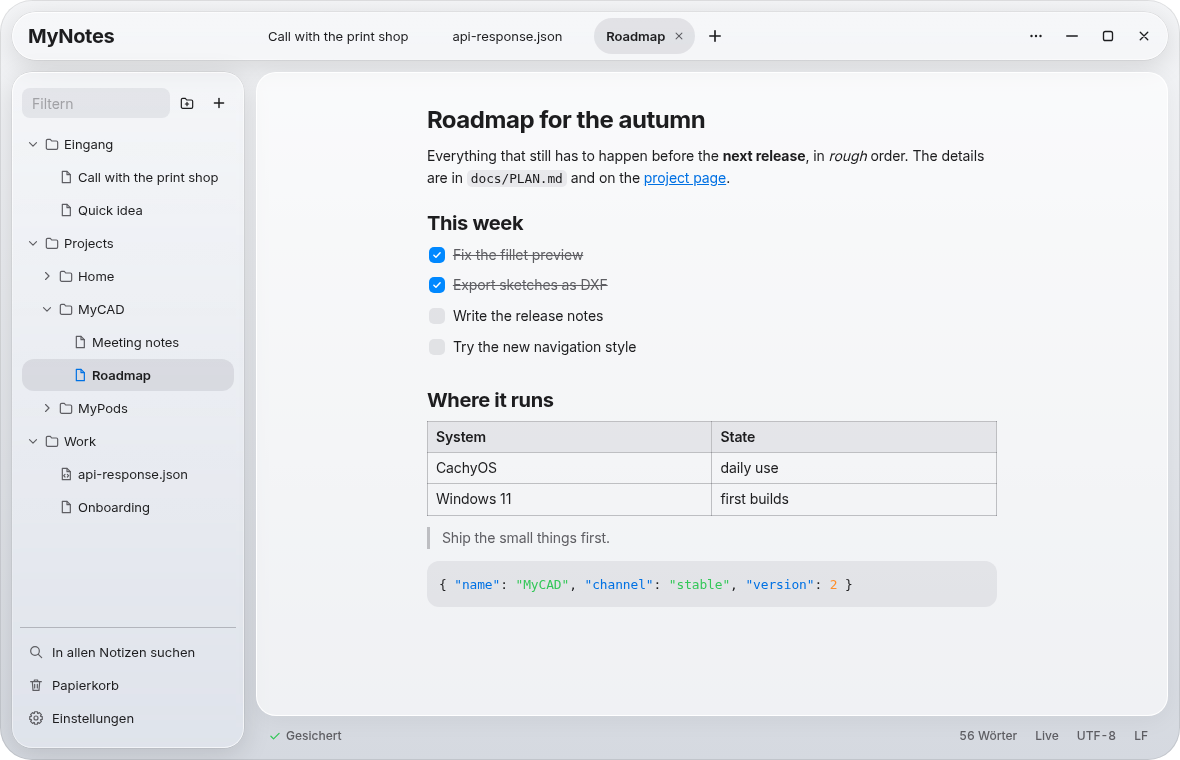
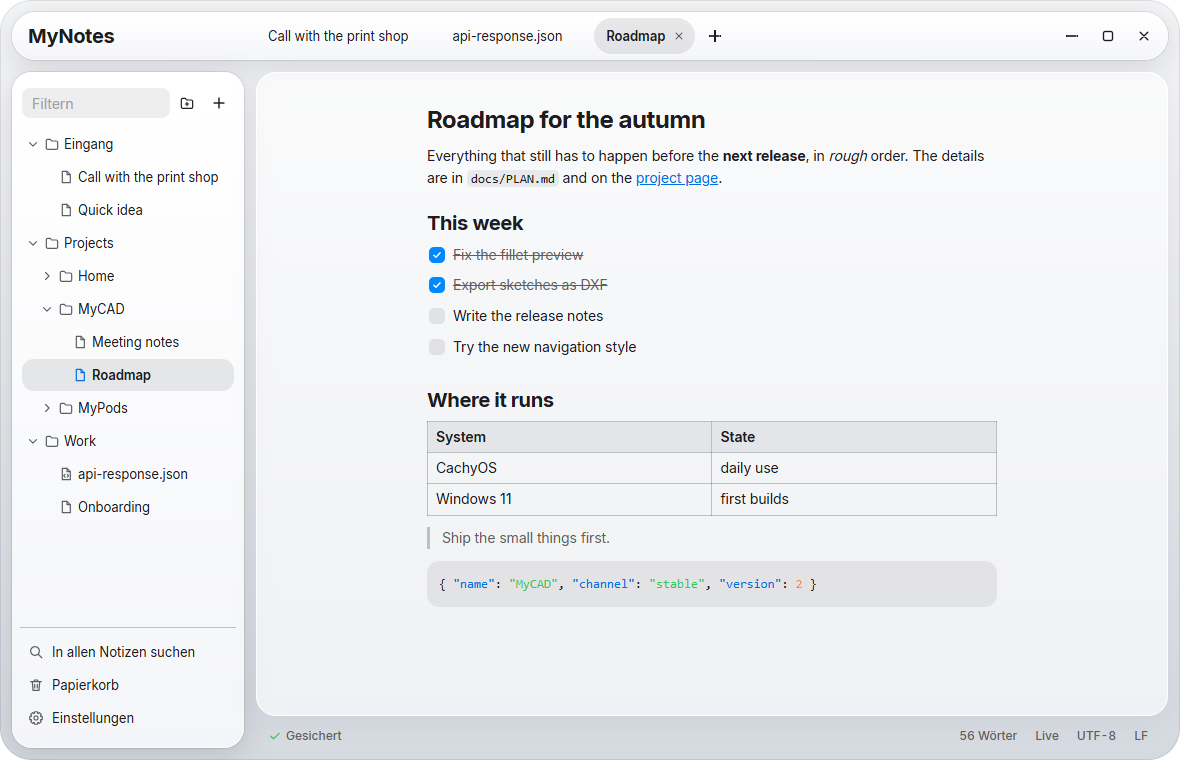
fix: shorter note names, a menu on the plus button, tabs that scroll
- Automatic file names stop at 40 characters, cut at a word, so the
  name no longer grows along with the first line.
- The three dots in the title bar are gone. A right click on the plus
  button offers what opens something new and the full command list.
- The mouse wheel scrolls the tab list, and a repaint no longer pulls
  it back while the pointer rests on it.
- The search field's focus ring is no longer clipped at the top.

diff --git a/src/renderer/app.js b/src/renderer/app.js
@@ -323,7 +323,9 @@ function paintTabs() {
     }));
     return node;
   }));
-  list.querySelector('.is-active')?.scrollIntoView({ block: 'nearest', inline: 'nearest' });
+  // Into view when the active tab changes or while typing, but a repaint must not pull the list away from someone looking for another tab.
+  if (state.activeId !== state.tabInView || !list.matches(':hover')) list.querySelector('.is-active')?.scrollIntoView({ block: 'nearest', inline: 'nearest' });
+  state.tabInView = state.activeId;
 }
 
 function tabMenu(tab, at) {
@@ -598,16 +600,23 @@ const inCode = (fn) => () => {
   else banner({ kind: 'info', text: 'Das geht in Code-Dateien und in der Quelltextansicht (Strg+/).' });
 };
 
+/** What opens something new: the menu on the plus button, and the top of the command list. */
+const openCommands = () => [
+  { label: 'Neuer Tab', hint: 'Strg+T', run: () => newTab() },
+  { label: 'Neue JSON-Datei', run: () => newTab({ ext: '.json' }) },
+  { label: 'Datei öffnen …', hint: 'Strg+O', run: openFiles },
+  { label: 'Notiz öffnen …', hint: 'Strg+P', run: quickOpen },
+  { label: 'Geschlossenen Tab zurückholen', hint: 'Strg+Umschalt+T', run: reopenClosed, disabled: !state.closed.length },
+];
+
+const showCommands = () => pick({ title: 'Befehl …', items: commands() });
+
 function commands() {
   const tab = activeTab();
   const md = tab && isMd(tab.doc);
   return [
-    { label: 'Neuer Tab', hint: 'Strg+T', run: () => newTab() },
-    { label: 'Neue JSON-Datei', run: () => newTab({ ext: '.json' }) },
-    { label: 'Datei öffnen …', hint: 'Strg+O', run: openFiles },
-    { label: 'Notiz öffnen …', hint: 'Strg+P', run: quickOpen },
+    ...openCommands(),
     { label: 'In allen Notizen suchen …', hint: 'Strg+Umschalt+F', run: showSearch },
-    { label: 'Geschlossenen Tab zurückholen', hint: 'Strg+Umschalt+T', run: reopenClosed },
     { label: 'Suchen und Ersetzen', hint: 'Strg+F', run: () => tab?.editor.find() },
     { label: 'JSON formatieren (Pretty Print)', hint: 'Strg+Alt+J', run: () => jsonTool(prettyJson) },
     { label: 'JSON komprimieren (Minify)', hint: 'Strg+Alt+Umschalt+J', run: () => jsonTool((s) => minifyJson(s)) },
@@ -921,7 +930,7 @@ window.addEventListener('keydown', (e) => {
   if (e.altKey) return undefined;
   if (e.shiftKey) {
     if (k === 't') return take(reopenClosed);
-    if (k === 'p') return take(() => pick({ title: 'Befehl …', items: commands() }));
+    if (k === 'p') return take(showCommands);
     if (k === 'f') return take(showSearch);
     if (k === 'tab') return take(() => cycleTab(-1));
     return undefined;
@@ -954,7 +963,6 @@ function wire() {
   iconize('new-folder', 'folderPlus');
   iconize('new-note', 'plus');
   iconize('tab-new', 'plus');
-  iconize('win-menu', 'more');
   iconize('win-min', 'minus');
   iconize('win-max', 'maximize');
   iconize('win-close', 'close');
@@ -965,9 +973,18 @@ function wire() {
 
   $('new-note').addEventListener('click', () => newTab());
   $('tab-new').addEventListener('click', () => newTab());
+  $('tab-new').addEventListener('contextmenu', (e) => {
+    e.preventDefault();
+    menu(e.currentTarget, [...openCommands(), { separator: true }, { label: 'Alle Befehle …', run: showCommands }]);
+  });
+  // A mouse wheel only scrolls vertically and this list shows no scrollbar: without this, tabs that moved out of view stay out of reach.
+  $('tab-list').addEventListener('wheel', (e) => {
+    if (Math.abs(e.deltaY) <= Math.abs(e.deltaX)) return;
+    e.preventDefault();
+    e.currentTarget.scrollLeft += e.deltaY;
+  }, { passive: false });
   $('new-folder').addEventListener('click', () => createFolderIn(''));
   $('filter').addEventListener('input', (e) => { state.filter = e.target.value; paintTree(); });
-  $('win-menu').addEventListener('click', () => pick({ title: 'Befehl …', items: commands() }));
   $('win-min').addEventListener('click', () => api.win('minimize'));
   $('win-max').addEventListener('click', () => api.win('maximize'));
   $('win-close').addEventListener('click', () => api.win('close'));

diff --git a/src/shared/text.js b/src/shared/text.js
@@ -55,7 +55,7 @@ const RESERVED = /^(con|prn|aux|nul|com\d|lpt\d)(\..*)?$/i;
 
 /** A file name stem that is valid on Windows and Linux, so a synced folder works on both. */
 export function safeName(name, fallback = 'Unbenannt') {
-  const s = String(name).replace(/[<>:"/\\|?*\u0000-\u001f]/g, ' ').replace(/\s+/g, ' ').trim().slice(0, 80).replace(/[. ]+$/, '').trim();
+  const s = String(name).replace(/[<>:"/\\|?*\u0000-\u001f]/g, ' ').replace(/\s+/g, ' ').trim().slice(0, 80).replace(/\p{Cs}/gu, '').replace(/[. ]+$/, '').trim(); // a cut can split an emoji
   if (!/[\p{L}\p{N}]/u.test(s)) return fallback;
   return RESERVED.test(s) ? `_${s}` : s;
 }
@@ -63,14 +63,19 @@ export function safeName(name, fallback = 'Unbenannt') {
 /** Prose is named after its first line. The first line of code or JSON says nothing, so those wait for a real name. */
 export const nameFromText = (text, ext) => (/^\.(md|markdown|txt)$/i.test(ext) ? titleOf(text) : 'Unbenannt');
 
-/** The note's title: the first line that has any text, without its Markdown markers. */
+const TITLE_MAX = 40;
+
+/** A title is a handle, not the whole line: cut at a word, so the name stops growing while the line goes on. */
+const shorten = (t) => (t.length <= TITLE_MAX ? t : t.slice(0, TITLE_MAX + 1).replace(/\s+\S*$/, '').slice(0, TITLE_MAX));
+
+/** The note's title: the start of the first line that has any text, without its Markdown markers. */
 export function titleOf(text) {
   for (const line of text.split('\n', 50)) {
     const t = line
       .replace(/!\[[^\]]*\]\([^)]*\)/g, '') // an image says nothing about the title
       .replace(/\[([^\]]*)\]\([^)]*\)/g, '$1') // of a link, only its text does
       .replace(/^\s*(#{1,6}\s+|>\s*|[-*+]\s+(\[[ xX]\]\s+)?|\d+[.)]\s+)*/, '').replace(/[*_`~]/g, '').trim();
-    if (/[\p{L}\p{N}]/u.test(t)) return safeName(t);
+    if (/[\p{L}\p{N}]/u.test(t)) return safeName(shorten(t));
   }
   return 'Unbenannt';
 }

diff --git a/src/renderer/index.html b/src/renderer/index.html
@@ -11,11 +11,10 @@
   <header id="topbar" class="ms-glass ms-glass--capsule">
     <div id="tabs" role="tablist" aria-label="Offene Notizen">
       <div id="tab-list" class="ms-scroll"></div>
-      <button id="tab-new" class="icon-btn" aria-label="Neuer Tab" title="Neuer Tab (Strg+T)"></button>
+      <button id="tab-new" class="icon-btn" aria-label="Neuer Tab" title="Neuer Tab (Strg+T). Rechtsklick: mehr öffnen"></button>
     </div>
     <span id="app-name" class="ms-title2">MyNotes</span>
     <div id="window-buttons">
-      <button id="win-menu" class="round-btn" aria-label="Befehle" title="Befehle (Strg+Umschalt+P)"></button>
       <button id="win-min" class="round-btn" aria-label="Minimieren" title="Minimieren"></button>
       <button id="win-max" class="round-btn" aria-label="Maximieren" title="Maximieren"></button>
       <button id="win-close" class="round-btn ms-button--close" aria-label="Schließen" title="Schließen"></button>

diff --git a/src/renderer/style.css b/src/renderer/style.css
@@ -190,7 +190,7 @@ svg { display: block; }
 .sheet--wide { width: min(880px, 100%); }
 .sheet-head { flex: none; display: flex; align-items: center; justify-content: space-between; padding: var(--ms-space-s) var(--ms-space-s) var(--ms-space-s) var(--ms-space-l); }
 .sheet-head h2 { margin: 0; }
-.sheet-body { flex: 1; min-height: 0; padding: 0 var(--ms-space-l) var(--ms-space-l); }
+.sheet-body { flex: 1; min-height: 0; padding: var(--ms-space-xs) var(--ms-space-l) var(--ms-space-l); } /* a scroller clips what it holds: the top padding keeps a focus ring whole */
 .sheet-section { margin: var(--ms-space-s) 0 var(--ms-space-xs) var(--ms-space-l); color: var(--ms-color-label-secondary); }
 .sheet-note { margin: var(--ms-space-xs) var(--ms-space-l) var(--ms-space-s); }
 .sheet-actions { display: flex; justify-content: flex-end; margin-top: var(--ms-space-m); }

diff --git a/tests/text.test.js b/tests/text.test.js
@@ -83,4 +83,12 @@ test('titles come from the first line with text', () => {
   assert.equal(titleOf('{\n"name": "x"\n}'), 'name x');
   assert.equal(titleOf('---\n***'), 'Unbenannt');
   assert.equal(titleOf(''), 'Unbenannt');
+  // long lines: cut at a word, and the name no longer changes while the line goes on
+  const long = 'Hallo was ist das denn für eine fesfesfsefsfseffffffffffffffff';
+  assert.equal(titleOf(long), 'Hallo was ist das denn für eine');
+  assert.equal(titleOf(`${long}ffffffff weiter`), 'Hallo was ist das denn für eine');
+  assert.equal(titleOf('x'.repeat(40)), 'x'.repeat(40));
+  assert.equal(titleOf('x'.repeat(60)), 'x'.repeat(40));
+  assert.equal(titleOf(`Erster Satz. ${'x'.repeat(50)}`), 'Erster Satz');
+  assert.equal(titleOf(`${'x'.repeat(39)}😀😀`), 'x'.repeat(39));
 });

diff --git a/src/renderer/icons.js b/src/renderer/icons.js
@@ -19,7 +19,6 @@ const paths = {
   glass: stroke('<path d="M12 3.2c3.3 4 6.2 7.3 6.2 10.9a6.2 6.2 0 0 1-12.4 0c0-3.6 2.9-6.9 6.2-10.9z"/><path d="M9.2 14.4a2.9 2.9 0 0 0 2.4 2.7"/>'),
   search: stroke('<circle cx="10.5" cy="10.5" r="6.5"/><path d="M15.5 15.5 20.5 20.5"/>'),
   trash: stroke('<path d="M4 7h16M9.5 7V4.5h5V7M6.5 7l1 13h9l1-13M10 11v5.5M14 11v5.5"/>'),
-  more: '<g fill="currentColor"><circle cx="6" cy="12" r="1.6"/><circle cx="12" cy="12" r="1.6"/><circle cx="18" cy="12" r="1.6"/></g>',
   maximize: stroke('<rect x="6" y="6" width="12" height="12" rx="2.5"/>'),
   restore: stroke('<rect x="5" y="9" width="10" height="10" rx="2.5"/><path d="M9 5.5h7a3 3 0 0 1 3 3v7"/>'),
   chevronRight: stroke('<path d="M9.5 6l6 6-6 6"/>', 2),

diff --git a/docs/PLAN.md b/docs/PLAN.md
@@ -132,7 +132,7 @@ TipTap erzeugt das Markdown beim Speichern neu. Aus `5 * 3` kann also `5 \* 3` w
 
 **Navigation:** Baum mit Ordnern und Unterordnern, Anlegen, Umbenennen, Verschieben und Sortieren per Ziehen, Schnellfilter, Papierkorb. Die manuelle Reihenfolge liegt in `.mynotes/order.json` im Notizordner.
 
-**Titel:** Neue Notizen heißen nach ihrer ersten Zeile, bis du sie umbenennst oder verschiebst. Dateinamen sind auf beiden Systemen gültig.
+**Titel:** Neue Notizen heißen nach dem Anfang ihrer ersten Zeile (höchstens 40 Zeichen, an einer Wortgrenze gekürzt), bis du sie umbenennst oder verschiebst. Dateinamen sind auf beiden Systemen gültig.
 
 **Markdown:** Überschriften, Fett, Kursiv, Durchgestrichen, Inline-Code, Links, Listen, Checklisten, Zitate, Code-Blöcke mit Highlighting, Tabellen, Trennlinien, Bilder. Dazu Slash-Menü, Formatleiste bei Auswahl und Markdown-Kürzel beim Tippen.
 

diff --git a/README.md b/README.md
@@ -50,7 +50,7 @@ Your notes are plain files. You can open them with anything, or sync them with N
 
 ## Open a tab. Start typing.
 
-Press `Ctrl+T` and type, the same as in Notepad++. With the first character the tab becomes a real file in the folder `Eingang` (inbox), named after its first line. Rename it or drag it into a folder and the name stays yours from then on. A tab you never typed in leaves nothing behind.
+Press `Ctrl+T` and type, the same as in Notepad++. With the first character the tab becomes a real file in the folder `Eingang` (inbox), named after the start of its first line (40 characters at most, cut at a word). Right-click the `+` to open a file, a note or a closed tab instead. Rename it or drag it into a folder and the name stays yours from then on. A tab you never typed in leaves nothing behind.
 
 Closing a tab never asks anything, and `Ctrl+Shift+T` brings it back.
 
